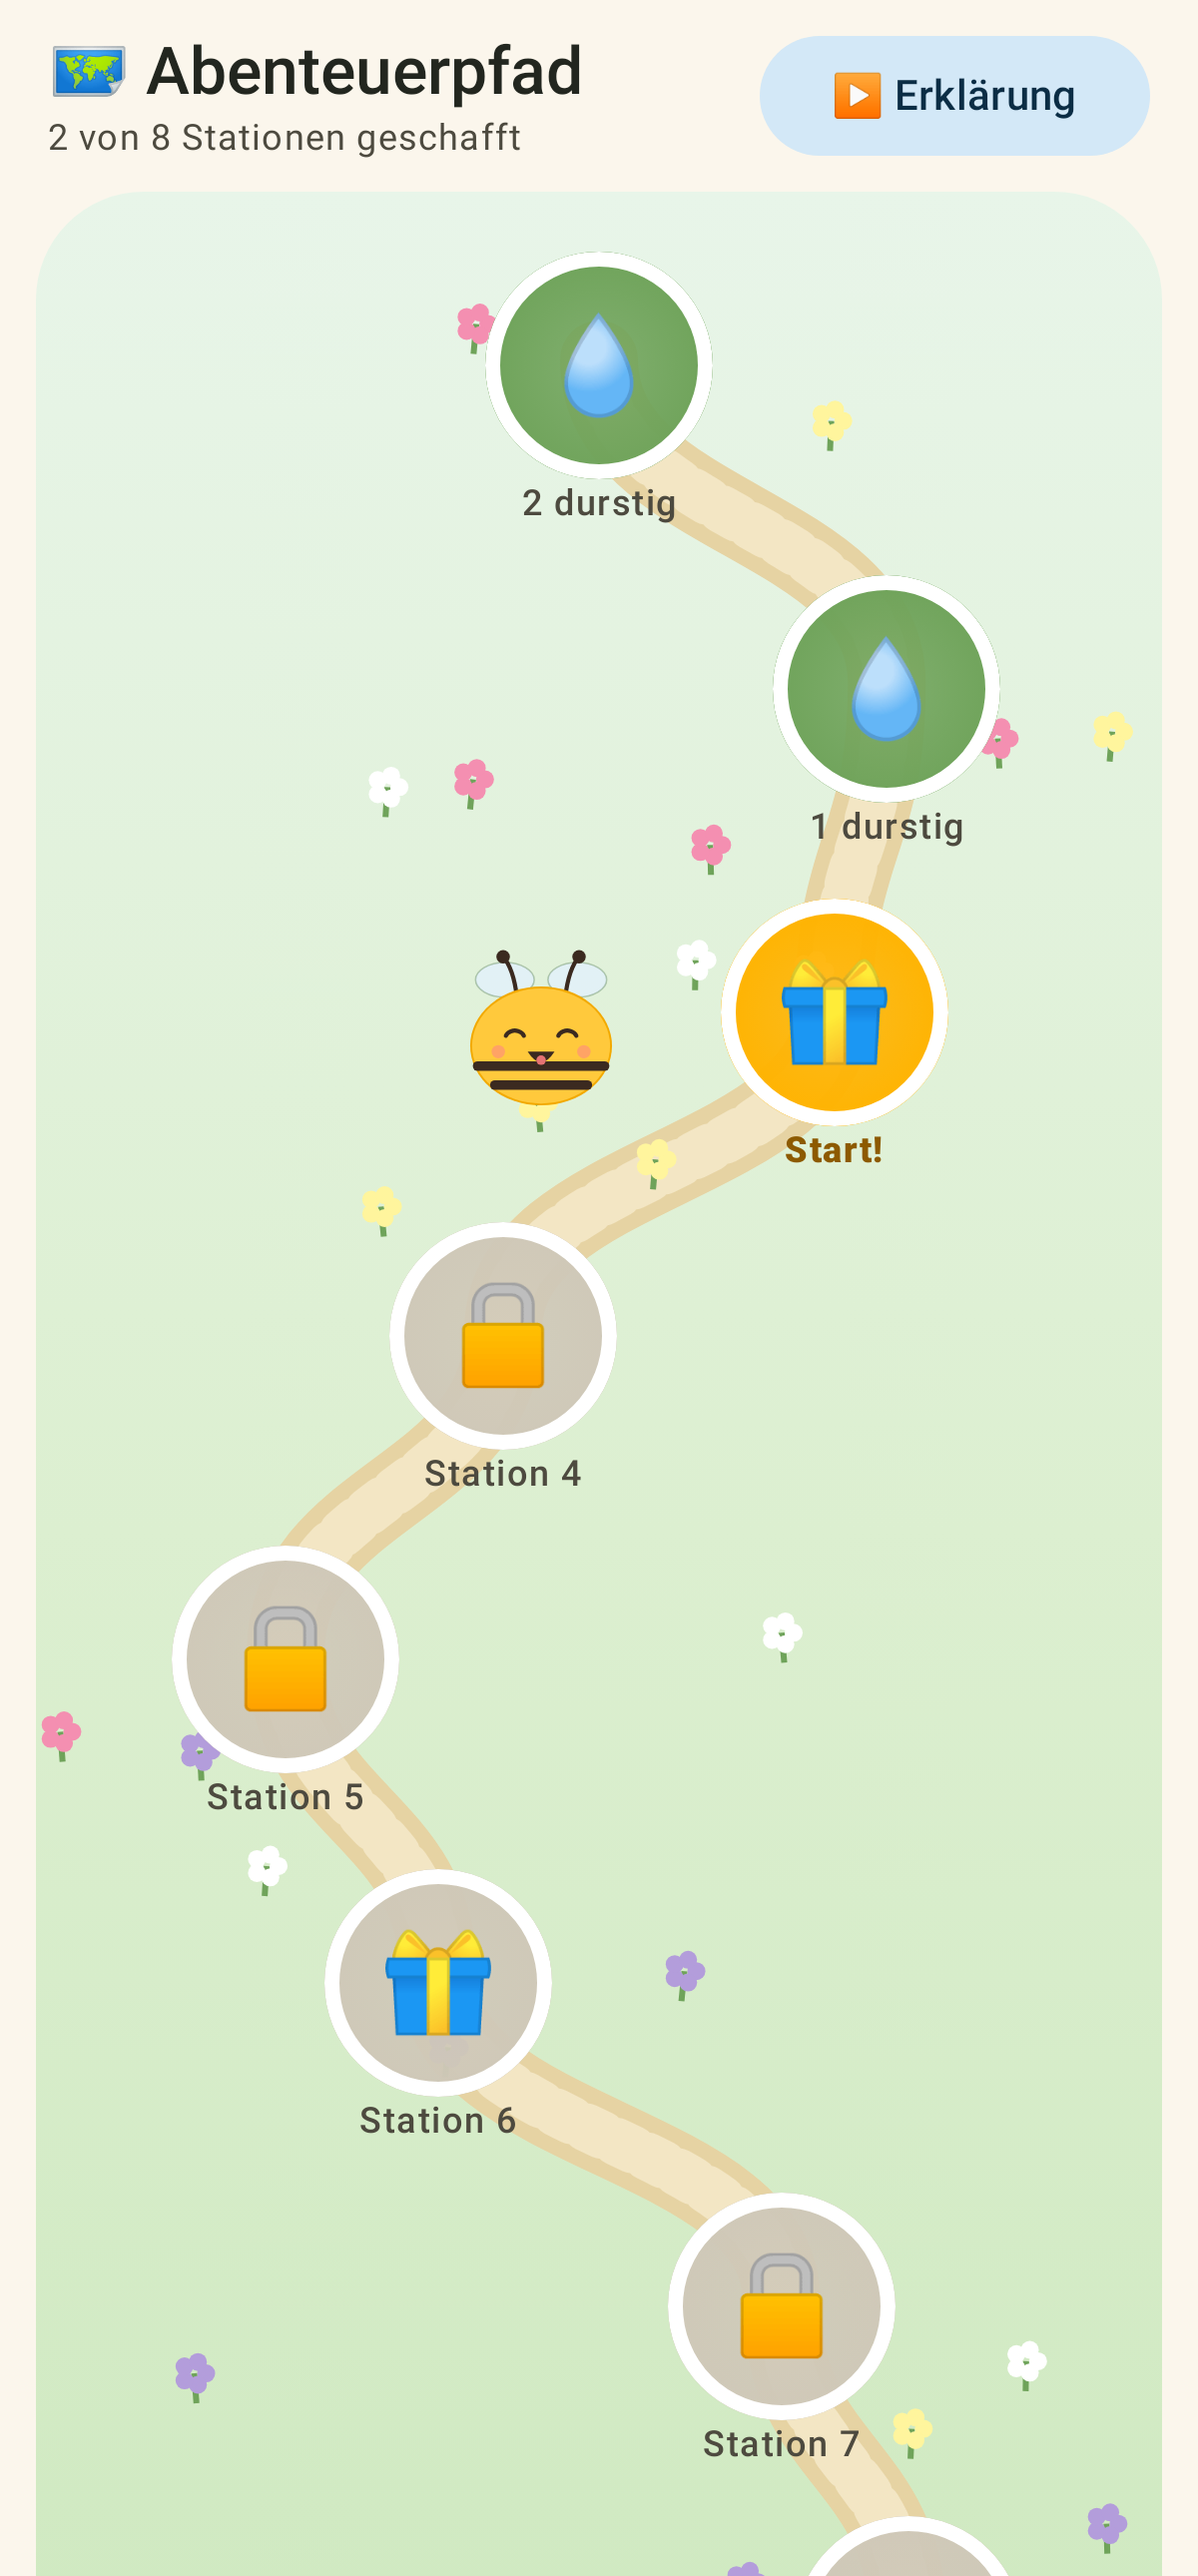
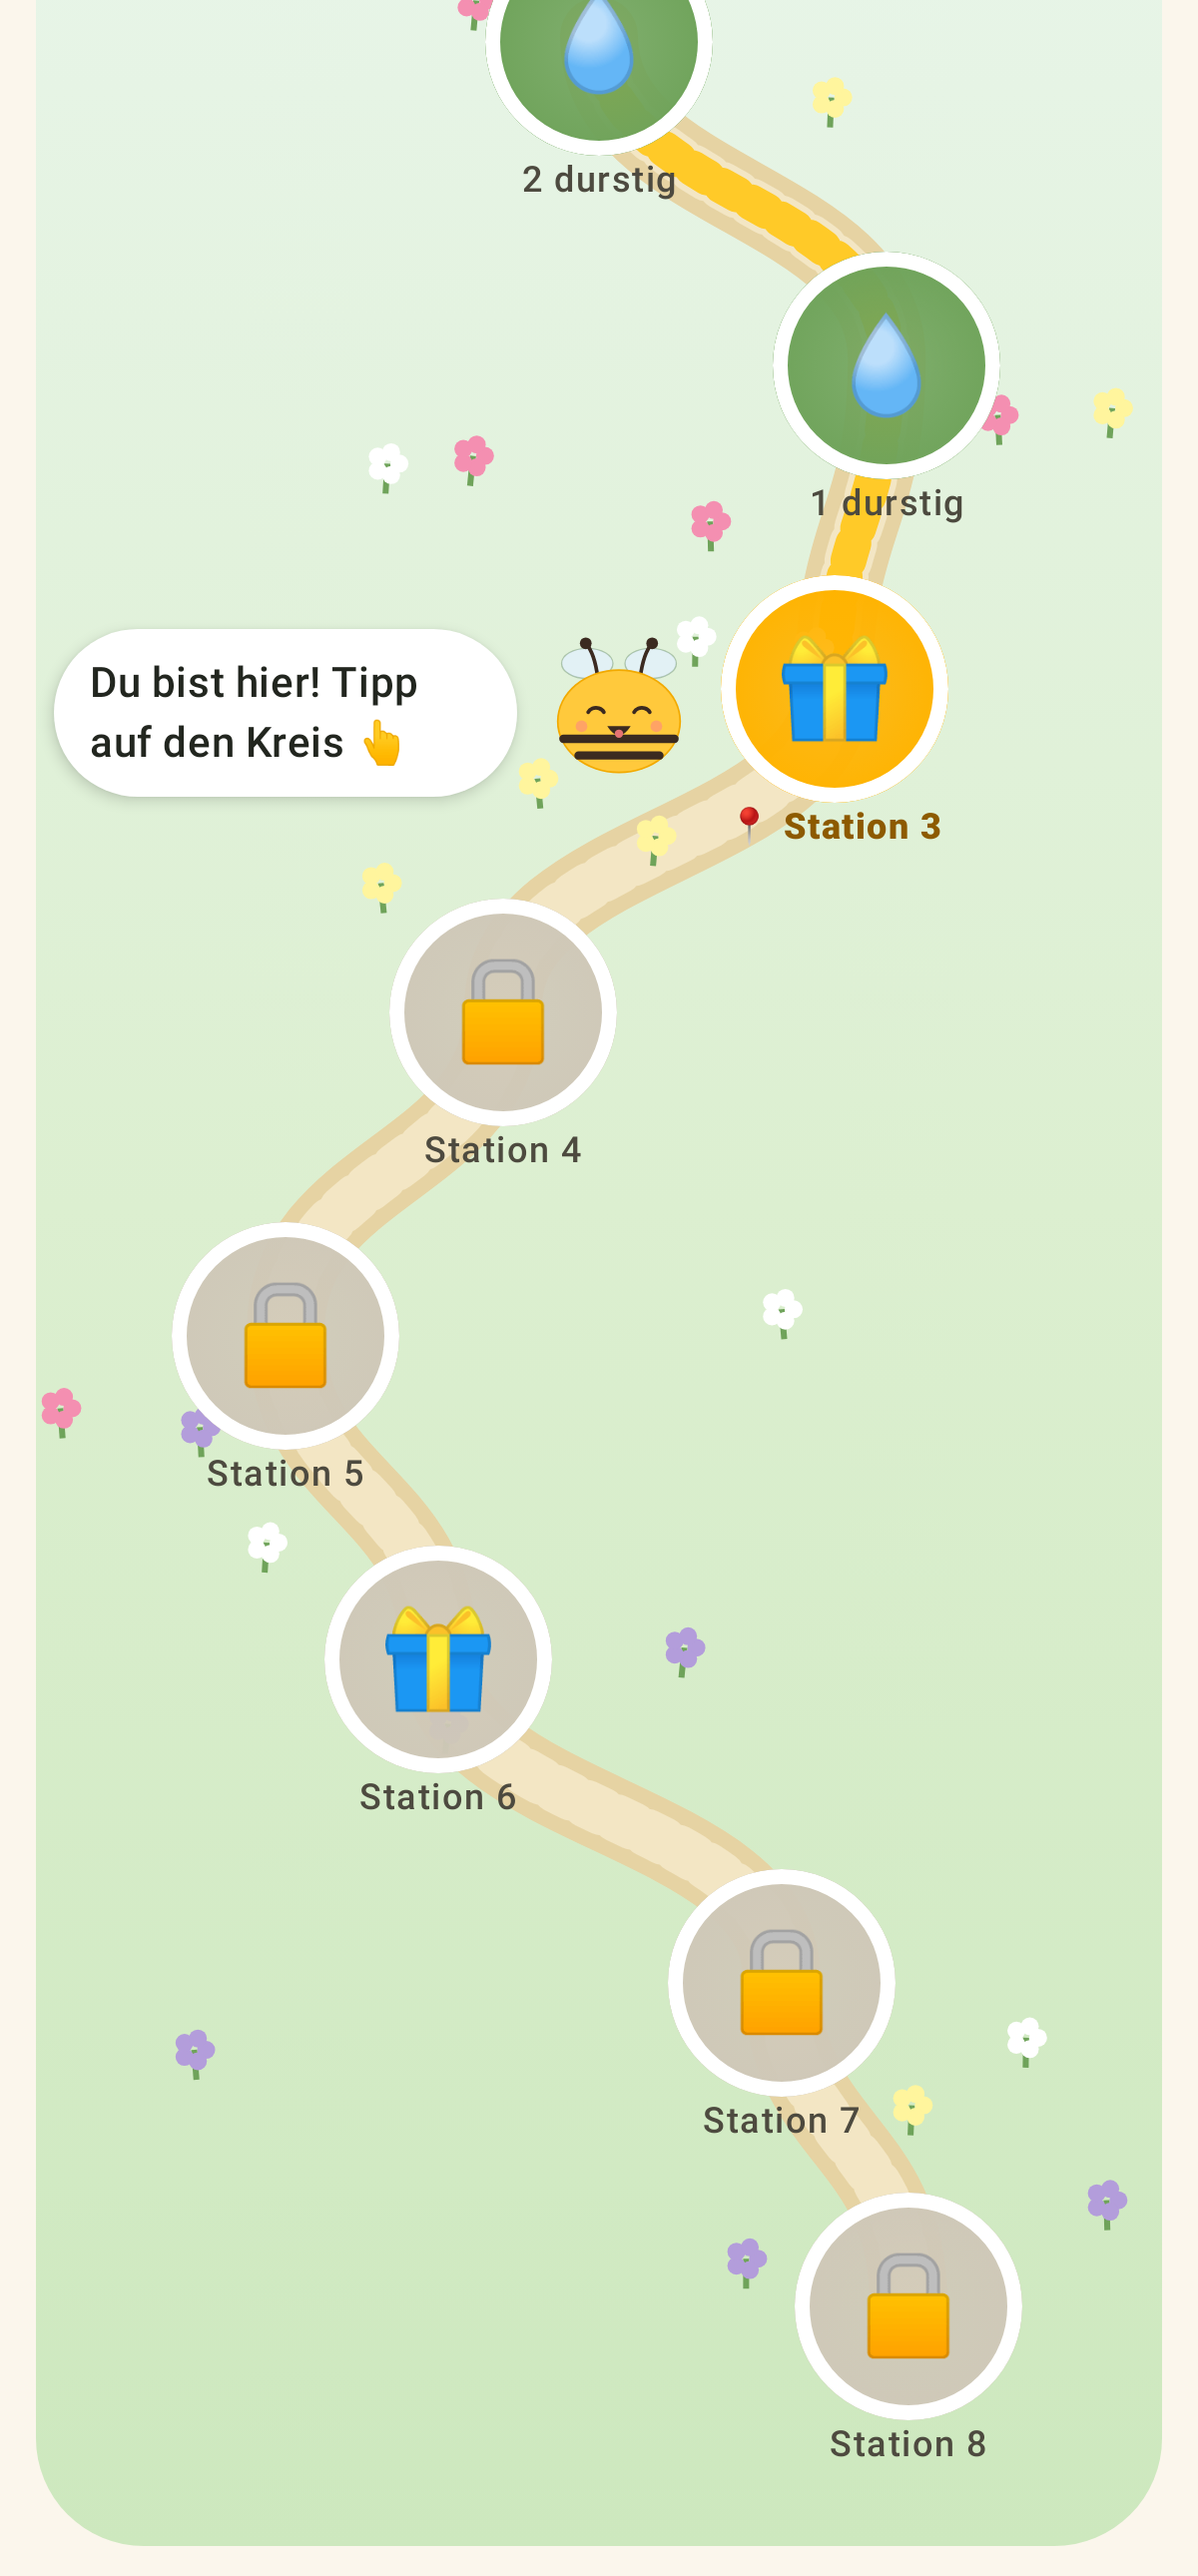
Wissensgarten 0.15.0: Runde übersteht Prozess-Ende, Abenteuerpfad „Du bist hier“, Wortarten-Merkbilder
Claude-Session: https://claude.ai/code/session_015vg1Tm7yM3ri4iaUJ7mSEw

diff --git a/wissensgarten/app/src/main/java/de/wissensgarten/app/ui/adventure/Adventure.kt b/wissensgarten/app/src/main/java/de/wissensgarten/app/ui/adventure/Adventure.kt
@@ -60,11 +60,18 @@ fun AdventurePathView(
     val sfx = LocalSfx.current
     val done = stations.count { it.state == StationState.DONE }
     val nodeH = 108.dp
-    Column(modifier.fillMaxWidth().verticalScroll(rememberScrollState())) {
+    val currentIdx = stations.indexOfFirst { it.state == StationState.CURRENT }
+    val scroll = rememberScrollState()
+    // Gleich dorthin scrollen, wo es weitergeht (eine Station davor bleibt sichtbar)
+    val density = LocalDensity.current
+    LaunchedEffect(currentIdx) {
+        if (currentIdx > 1) scroll.animateScrollTo(with(density) { (nodeH * (currentIdx - 1)).roundToPx() })
+    }
+    Column(modifier.fillMaxWidth().verticalScroll(scroll)) {
         Row(Modifier.fillMaxWidth().padding(horizontal = 16.dp, vertical = 8.dp), verticalAlignment = Alignment.CenterVertically) {
             Column(Modifier.weight(1f)) {
                 Text("🗺 Abenteuerpfad", style = MaterialTheme.typography.titleLarge)
-                Text("$done von ${stations.size} Stationen geschafft", style = MaterialTheme.typography.bodySmall, color = MaterialTheme.colorScheme.onSurfaceVariant)
+                Text(if (currentIdx >= 0) "$done von ${stations.size} geschafft · weiter bei Station ${currentIdx + 1}" else "Alle ${stations.size} Stationen geschafft! 🏆", style = MaterialTheme.typography.bodySmall, color = MaterialTheme.colorScheme.onSurfaceVariant)
             }
             if (onIntro != null) FilledTonalButton(onClick = onIntro) { Text("▶ Erklärung") }
         }
@@ -89,6 +96,20 @@ fun AdventurePathView(
                 drawPath(path, Color(0xFFE6D3A3), style = Stroke(width = 26.dp.toPx(), cap = StrokeCap.Round))
                 drawPath(path, Color(0xFFF3E6C4), style = Stroke(width = 16.dp.toPx(), cap = StrokeCap.Round,
                     pathEffect = PathEffect.dashPathEffect(floatArrayOf(18f, 16f))))
+                // Schon gegangener Weg leuchtet golden – bis zur aktuellen Station
+                val walkedTo = if (currentIdx >= 0) currentIdx else stations.lastIndex
+                if (walkedTo > 0) {
+                    val walked = Path()
+                    for (i in 0..walkedTo) {
+                        val p = nodePos(i, size.width, step, top)
+                        if (i == 0) walked.moveTo(p.x, p.y) else {
+                            val prev = nodePos(i - 1, size.width, step, top)
+                            walked.cubicTo(prev.x, prev.y + step * 0.5f, p.x, p.y - step * 0.5f, p.x, p.y)
+                        }
+                    }
+                    drawPath(walked, Color(0xFFFFCA28), style = Stroke(width = 12.dp.toPx(), cap = StrokeCap.Round,
+                        pathEffect = PathEffect.dashPathEffect(floatArrayOf(18f, 16f))))
+                }
                 val r = kotlin.random.Random(7)
                 repeat(stations.size * 3) {
                     val x = r.nextFloat() * size.width; val y = r.nextFloat() * size.height
@@ -112,8 +133,13 @@ fun AdventurePathView(
                             if (st.state == StationState.LOCKED) sfx?.play(Sound.WRONG, volume = 0.4f) else { sfx?.play(Sound.PLOP); onStation(st) }
                         }
                         if (st.state == StationState.CURRENT) {
-                            val bx = if (xFrac < 0.5f) mw * xFrac + 44.dp else mw * xFrac - 130.dp
-                            Brummi(Mood.HAPPY, Modifier.align(Alignment.CenterStart).offset(x = bx), size = 64.dp)
+                            // Brummi steht auf der freien Seite und zeigt, wo es weitergeht
+                            val say = "Du bist hier! Tipp auf den Kreis 👆"
+                            if (xFrac < 0.5f) Box(Modifier.align(Alignment.CenterStart).offset(x = mw * xFrac + 44.dp).width(mw * (1 - xFrac) - 44.dp)) {
+                                Brummi(Mood.HAPPY, Modifier.align(Alignment.CenterStart), size = 56.dp, speech = say)
+                            } else Box(Modifier.align(Alignment.CenterStart).width(mw * xFrac - 44.dp)) {
+                                Brummi(Mood.HAPPY, Modifier.align(Alignment.CenterEnd), size = 56.dp, speech = say, bubbleOnLeft = true)
+                            }
                         }
                     }
                 }
@@ -151,7 +177,7 @@ private fun StationNode(st: Station, modifier: Modifier, onClick: () -> Unit) {
             )
         }
         Text(
-            when { st.state == StationState.CURRENT -> "Start!"; st.thirsty > 0 -> "${st.thirsty} durstig"; else -> "Station ${st.index + 1}" },
+            when { st.state == StationState.CURRENT -> "📍 Station ${st.index + 1}"; st.thirsty > 0 -> "${st.thirsty} durstig"; else -> "Station ${st.index + 1}" },
             style = MaterialTheme.typography.labelMedium, fontWeight = if (current) FontWeight.Black else FontWeight.Medium,
             color = if (current) Color(0xFF8D5A00) else Color(0xFF4D4A3F),
         )

diff --git a/wissensgarten/app/src/main/java/de/wissensgarten/app/AppViewModel.kt b/wissensgarten/app/src/main/java/de/wissensgarten/app/AppViewModel.kt
@@ -24,7 +24,7 @@ import kotlinx.coroutines.launch
 @OptIn(ExperimentalCoroutinesApi::class)
 const val SAFARI_BED = "Meine Safari"
 
-class AppViewModel(app: Application) : AndroidViewModel(app) {
+class AppViewModel(app: Application, private val saved: androidx.lifecycle.SavedStateHandle) : AndroidViewModel(app) {
     private val c = (app as WissensgartenApp).container
     private val repo = c.repository
     val settings = c.settings
@@ -124,7 +124,7 @@ class AppViewModel(app: Application) : AndroidViewModel(app) {
 
     // --- Kreuzungen (Mischrunde) ---
     var mixPair: Pair<de.wissensgarten.core.model.Subject, de.wissensgarten.core.model.Subject>? = null
-        private set
+        private set(v) { field = v; saved[K_MIX] = v?.let { "${it.first.name},${it.second.name}" } }
     /** Gerade gezüchtete Kreuzung (für die Enthüllung) */
     var newHybrid: de.wissensgarten.core.model.Hybrid? = null
         private set
@@ -336,7 +336,28 @@ class AppViewModel(app: Application) : AndroidViewModel(app) {
 
     /** Karten der laufenden Gieß-Runde (fest, damit sie während der Runde nicht springt). */
     var session: List<StudyCard> = emptyList()
-        private set
+        private set(v) { field = v; saved[K_SESSION] = ArrayList(v.map { it.id }) }
+
+    /**
+     * Beendet Android die App im Hintergrund, ist [session] danach leer. Die Karten-IDs liegen aber im
+     * gespeicherten Zustand → hier mit dem aktuellen Lernstand aus der Datenbank wieder zusammensetzen.
+     * Die Position in der Runde merkt sich der Bildschirm selbst (rememberSaveable).
+     */
+    fun restoreSession(all: List<BedWithCards>): List<StudyCard> {
+        if (session.isNotEmpty()) return session
+        val ids = saved.get<ArrayList<String>>(K_SESSION).orEmpty()
+        if (ids.isEmpty()) return emptyList()
+        val byId = all.flatMap { it.cards }.associateBy { it.id }
+        session = ids.mapNotNull { byId[it]?.toStudy() }
+        sessionCalm = saved.get<Boolean>(K_CALM) == true
+        if (mixPair == null) mixPair = saved.get<String>(K_MIX)?.split(',')?.takeIf { it.size == 2 }?.let { (a, b) ->
+            runCatching { de.wissensgarten.core.model.Subject.valueOf(a) to de.wissensgarten.core.model.Subject.valueOf(b) }.getOrNull()
+        }
+        return session
+    }
+
+    /** Liegt eine unterbrochene Runde im gespeicherten Zustand? */
+    fun hasSavedSession(): Boolean = session.isEmpty() && !saved.get<ArrayList<String>>(K_SESSION).isNullOrEmpty()
 
     init {
         viewModelScope.launch {
@@ -412,7 +433,7 @@ class AppViewModel(app: Application) : AndroidViewModel(app) {
 
     /** Gute-Nacht-Runde aktiv? (ruhige Spielarten, leise) */
     var sessionCalm = false
-        private set
+        private set(v) { field = v; saved[K_CALM] = v }
 
     fun startSession(bedId: String? = null): Boolean {
         sessionCalm = false; mixPair = null
@@ -431,7 +452,7 @@ class AppViewModel(app: Application) : AndroidViewModel(app) {
         viewModelScope.launch { repo.addDew(p.id, amount) }
     }
 
-    fun endSession() { tick(); refreshWidget() }
+    fun endSession() { session = emptyList(); saved[K_MIX] = null; tick(); refreshWidget() }
 
     // --- Einrichtung & Profile ---
 
@@ -501,5 +522,11 @@ class AppViewModel(app: Application) : AndroidViewModel(app) {
 
     fun refreshWidget() {
         viewModelScope.launch { runCatching { GardenWidget().updateAll(getApplication()) } }
+    }
+
+    private companion object {
+        const val K_SESSION = "session_ids"
+        const val K_CALM = "session_calm"
+        const val K_MIX = "session_mix"
     }
 }

diff --git a/wissensgarten/app/src/test/java/de/wissensgarten/app/session/SessionRestoreTest.kt b/wissensgarten/app/src/test/java/de/wissensgarten/app/session/SessionRestoreTest.kt
@@ -1,0 +1,46 @@
+package de.wissensgarten.app.session
+
+import androidx.lifecycle.SavedStateHandle
+import androidx.test.core.app.ApplicationProvider
+import de.wissensgarten.app.AppViewModel
+import de.wissensgarten.app.WissensgartenApp
+import de.wissensgarten.core.data.db.BedEntity
+import de.wissensgarten.core.data.db.BedWithCards
+import de.wissensgarten.core.data.db.CardEntity
+import org.junit.Assert.*
+import org.junit.Test
+import org.junit.runner.RunWith
+import org.robolectric.RobolectricTestRunner
+import org.robolectric.annotation.Config
+
+/** Beendet Android die App mitten in einer Gieß-Runde, geht es danach mit denselben Karten weiter. */
+@RunWith(RobolectricTestRunner::class)
+@Config(sdk = [35])
+class SessionRestoreTest {
+    private val app = ApplicationProvider.getApplicationContext<WissensgartenApp>()
+    private fun card(id: String, reps: Int = 1) = CardEntity(id = id, bedId = "b", profileId = "p", front = "F$id", back = "A$id", createdAt = 0, reps = reps)
+    private val beds = listOf(BedWithCards(BedEntity("b", "p", "Englisch", "💬", 340f, null, 0, 0), listOf(card("c1"), card("c2"), card("c3", reps = 7))))
+
+    @Test fun roundComesBackInSameOrderWithFreshProgress() {
+        // So legt die laufende Runde ihren Zustand ab (Reihenfolge c3, c1 – c2 war nicht dabei)
+        val saved = SavedStateHandle(mapOf("session_ids" to arrayListOf("c3", "c1"), "session_calm" to true, "session_mix" to "MATHE,ENGLISCH"))
+        val vm = AppViewModel(app, saved)
+        assertTrue(vm.hasSavedSession())
+
+        val restored = vm.restoreSession(beds)
+        assertEquals(listOf("c3", "c1"), restored.map { it.id })
+        assertEquals(7, restored[0].memory.reps)   // aktueller Lernstand aus der Datenbank
+        assertTrue(vm.sessionCalm)
+        assertNotNull(vm.mixPair)
+        assertFalse(vm.hasSavedSession())
+    }
+
+    @Test fun deletedCardsAreSkippedAndFinishedRoundIsForgotten() {
+        val saved = SavedStateHandle(mapOf("session_ids" to arrayListOf("weg", "c2")))
+        val vm = AppViewModel(app, saved)
+        assertEquals(listOf("c2"), vm.restoreSession(beds).map { it.id })
+        vm.endSession()
+        assertEquals(emptyList<String>(), saved.get<ArrayList<String>>("session_ids"))
+        assertFalse(AppViewModel(app, saved).hasSavedSession())
+    }
+}

diff --git a/wissensgarten/app/src/main/java/de/wissensgarten/app/MainActivity.kt b/wissensgarten/app/src/main/java/de/wissensgarten/app/MainActivity.kt
@@ -49,6 +49,7 @@ import de.wissensgarten.app.ui.fx.LocalSfx
 import de.wissensgarten.app.ui.fx.LocalWind
 import de.wissensgarten.app.ui.fx.rememberWind
 import kotlinx.coroutines.flow.MutableStateFlow
+import kotlinx.coroutines.flow.first
 import kotlinx.coroutines.launch
 import androidx.compose.ui.graphics.Color
 
@@ -615,9 +616,15 @@ class MainActivity : ComponentActivity() {
                     )
                 }
                 composable(Routes.REVIEW) {
-                    val session = remember { vm.session }
-                    ReviewScreen(
-                        items = session,
+                    // Nach einem Neustart durch Android: Runde aus der Datenbank zurückholen, sobald die Beete geladen sind
+                    var session by remember { mutableStateOf(vm.session.takeIf { it.isNotEmpty() || !vm.hasSavedSession() }) }
+                    if (session == null) LaunchedEffect(Unit) {
+                        val loaded = kotlinx.coroutines.withTimeoutOrNull(5_000) { vm.beds.first { it.isNotEmpty() } }.orEmpty()
+                        session = vm.restoreSession(loaded)
+                    }
+                    val items = session
+                    if (items == null) Box(Modifier.fillMaxSize()) else ReviewScreen(
+                        items = items,
                         beds = beds.associate { it.bed.id to it.bed },
                         simpleRating = profile?.simpleRating == true,
                         onRate = { c, r, dew -> vm.review(c, r, dew) },

diff --git a/wissensgarten/CHANGELOG.md b/wissensgarten/CHANGELOG.md
@@ -3,6 +3,11 @@
 Kurz und verständlich für Eltern und Kinder. Der Abschnitt der aktuellen Version erscheint automatisch
 im GitHub-Release und in der App unter „App-Update“.
 
+## 0.15.0 – Weitermachen, wo du warst
+- **Gieß-Runde geht nicht mehr verloren:** Beendet Android die App im Hintergrund (z. B. beim Telefonieren oder Spielen), geht es danach mit derselben Karte weiter.
+- **Abenteuerpfad zeigt „Du bist hier“:** Brummi zeigt auf die aktuelle Station, der geschaffte Weg leuchtet golden und die Ansicht springt gleich an die richtige Stelle.
+- **Wortarten leichter verständlich:** feste Zeichen, die Brummi in der Erklärung vorstellt – 🏷 Namenwort (Nomen), 🏃 Tuwort (Verb), 🎨 Wiewort (Adjektiv). Artikel-Herzen wie in der Grundschule: 💙 der, ❤ die, 💚 das. Unklare Bilder (Teller für „Tisch“, Bilderrahmen für „Fenster“) sind ersetzt.
+
 ## 0.14.0 – Großer Prüf- und Reparatur-Durchgang
 **Lernfortschritt & Tautropfen**
 - Handy gedreht, während die Antwort angezeigt wird: Die Karte wird nicht mehr doppelt bewertet.
